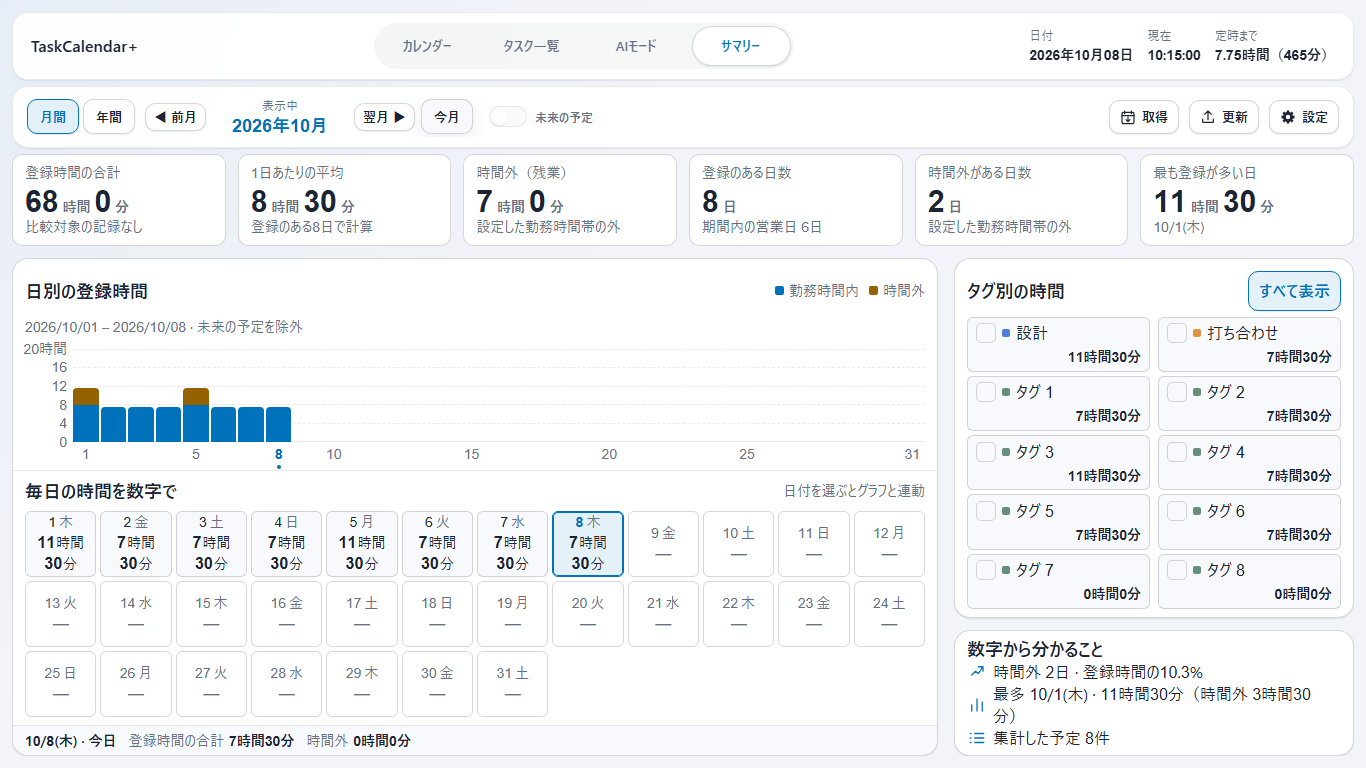
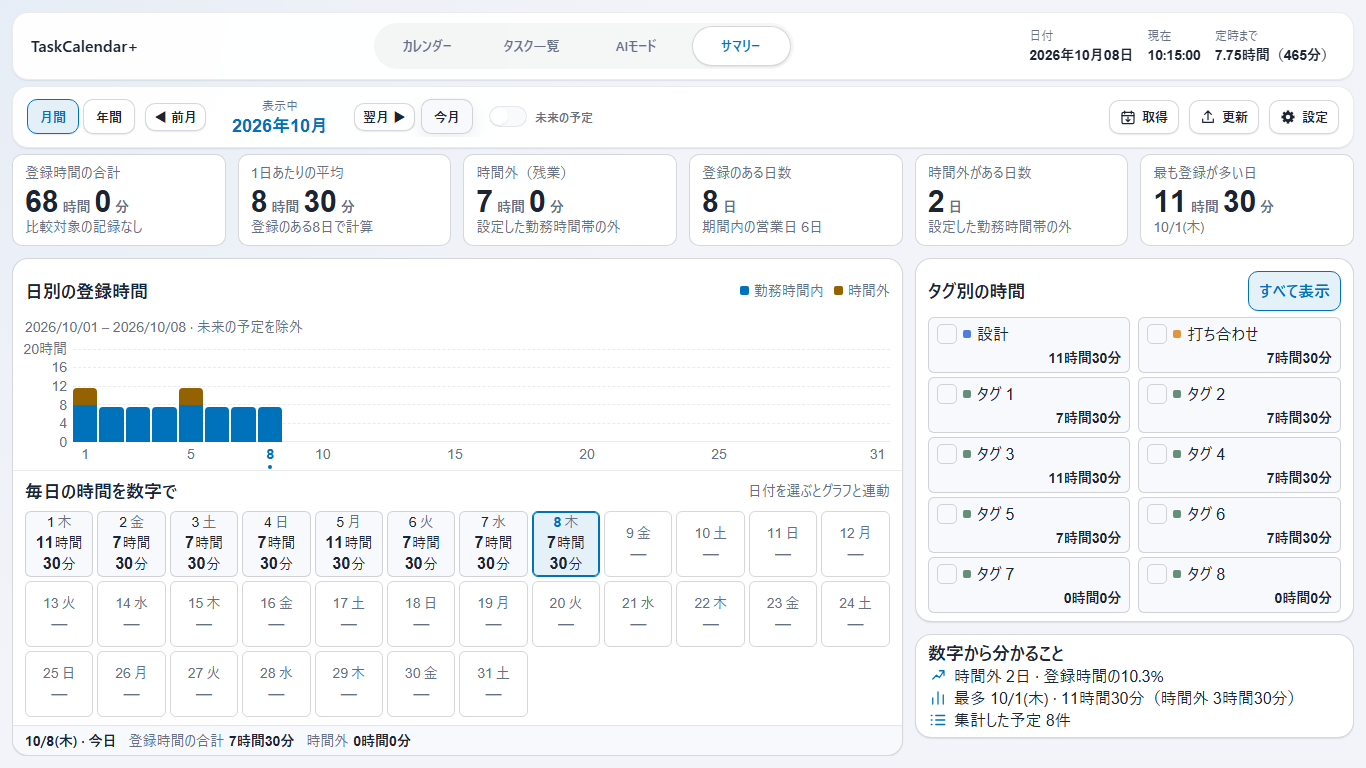
fix: align summary panels with the metric card grid

Changed region(s): [[0.0307, 0.3438, 0.9839, 0.9688], [0.0615, 0.5, 0.2152, 0.5938], [0.5227, 0.5625, 0.5534, 0.5938]]

diff --git a/src-tauri/renderer/assets/summary.css b/src-tauri/renderer/assets/summary.css
@@ -17,18 +17,20 @@
 .summaryScreen:has(.summaryNotice:not([hidden])) .summaryContent { flex: 0 0 auto; min-height: 520px; }
 .summaryNotice { display: flex; align-items: center; justify-content: space-between; gap: 12px; padding: 8px 12px; border: 1px solid var(--danger); border-radius: 8px; background: var(--panel); flex-shrink: 0; }
 .summaryNotice p { font-size: 16px; margin: 0; }
-.summaryMetrics { display: grid; grid-auto-flow: column; grid-auto-columns: minmax(0,1fr); gap: 12px; flex-shrink: 0; }
+/* Both rows share six equal tracks, so the four/two split stays aligned at any width. */
+.summaryMetrics, .summaryContent { display: grid; grid-template-columns: repeat(6,minmax(0,1fr)); gap: 12px; }
+.summaryMetrics { flex-shrink: 0; }
 .summaryMetric { display: flex; flex-direction: column; min-width: 0; padding: 8px 12px; border: 1px solid var(--border-strong); border-radius: var(--radius-md); background: var(--panel); }
 .summaryMetricLabel { flex: 1; font-size: 14px; line-height: 20px; color: var(--muted); }
 .summaryMetricValue { font-size: 30px; line-height: 34px; font-weight: 700; white-space: nowrap; font-variant-numeric: tabular-nums; }
 .summaryMetricValue small { font-size: 14px; line-height: 20px; font-weight: 500; margin: 0 4px; color: var(--muted); }
 .summaryMetricDetail { font-size: 14px; line-height: 20px; color: var(--muted); overflow: hidden; text-overflow: ellipsis; white-space: nowrap; }
-.summaryContent { display: grid; grid-template-columns: minmax(0,1fr) 400px; gap: 16px; flex: 1; min-width: 0; min-height: 476px; }
-.summarySide { display: flex; flex-direction: column; gap: 12px; min-width: 0; min-height: 0; }
+.summaryContent { flex: 1; min-width: 0; min-height: 476px; }
+.summarySide { grid-column: span 2; display: flex; flex-direction: column; gap: 12px; min-width: 0; min-height: 0; }
 .summaryPanel { min-width: 0; border: 1px solid var(--border-strong); border-radius: var(--radius-lg); background: var(--panel); box-shadow: var(--shadow-sm); }
 .summaryPanelHeading, .summaryNumbersHeading { display: flex; align-items: center; justify-content: space-between; gap: 10px; padding: 4px var(--summary-inset); flex-shrink: 0; }
 .summaryPanelHeading h2, .summaryNumbersHeading h2, .summaryInsights h2 { margin: 0; font-size: 18px; line-height: 24px; font-weight: 700; }
-.summaryTrend { display: flex; flex-direction: column; flex: 1; min-height: 210px; }
+.summaryTrend { grid-column: span 4; display: flex; flex-direction: column; flex: 1; min-height: 210px; }
 .summaryTrend > .summaryPanelHeading { min-height: 58px; padding-top: 12px; padding-bottom: 6px; }
 .summaryLegend { display: flex; align-items: center; justify-content: flex-end; gap: 10px; max-width: 55%; min-width: 0; font-size: 14px; line-height: 20px; color: var(--muted); }
 .summaryLegend span { display: inline-flex; align-items: center; gap: 5px; max-width: 145px; min-width: 0; }

diff --git a/docs/reviews/summary-readable.md b/docs/reviews/summary-readable.md
@@ -16,6 +16,7 @@
 | 年間の数字 | 12個を横並び | グラフ下に6列×2行。月を選ぶと日別へ移動 |
 | タグ | 右の領域 | 右側の2列を維持。名前と時間を上下に表示 |
 | タグの見出し | 上余白2px | 上余白12pxを確保し、左のグラフ見出しとも整列 |
+| 上段と下段の縦境界 | 右列400px固定で上段カードと不一致 | 同じ6列を共有し、グラフは4列、タグ・要約は2列。上段4／5枚目との境界を揃える |
 | 要約 | 小さい文章を複数行 | 同じ日数・割合・最長日・件数を簡潔な文で表示 |
 
 すべての棒と日付の数字は残している。グラフの横軸は間隔を空けて日付を表示し、選択した日も表示する。タグの時間割合は、時間表示のツールチップで確認できる。
@@ -55,6 +56,10 @@
 
 ![ダークテーマ](../images/summary-readable/month-dark.png)
 
+上段4枚目の右端とグラフの右端、5枚目の左端とタグ・要約の左端を揃えた。両段の間隔は12px。提示画像に近い1422×866のCSS表示領域では、それぞれ940px／952pxで一致する。次は3タグの検証用データで撮影した実renderer。
+
+![上段と下段の縦境界を統一](../images/summary-readable/aligned-columns.png)
+
 ## 今月へ戻すときのスクロール修正
 
 再現条件では、今月の最長日の説明が2行になり、右下の要約が104pxから126pxへ増えた。タグ欄の高さが固定だったため、右列全体が割当高さを超えていた。
@@ -75,7 +80,7 @@
 
 ## 確認条件と限界
 
-今回の今月スクロール／期間強調の修正後は、関連する6スイート（今月復帰・読みやすさ・整列・サマリー操作・共通UI・多言語）が合格。直前の04a200fではNode49スイートとJavaScript58ファイルの構文検査が合格していたが、今回の全体再実行を意味しない。集計計算・DBスキーマ・ネイティブ処理は変更していない。画像と検証範囲は[検証記録](summary-readable-evidence.json)に保存した。
+今回の縦境界修正後は、関連する5スイート（整列・今月復帰・読みやすさ・サマリー操作・共通UI）が合格。整列は3／10タグ×3画面幅×月間／年間を比較し、修正前のずれを検出してから修正後の一致を確認した。04a200f時点のNode49スイート・JavaScript58ファイルの構文検査は過去の結果で、今回の全体再実行を意味しない。集計計算・DBスキーマ・ネイティブ処理は変更していない。画像と検証範囲は[検証記録](summary-readable-evidence.json)に保存した。
 
 - 1280×800・1366×768で、31日・10タグ・指標6個とグラフを、通常時はスクロールなしで表示する。
 - 文字サイズの下限、実際の文字領域の欠け、操作部の重なり、パネル間の重なりを計測する。23時間59分の日別表示と選択連動、年間8,753時間55分の桁数でも6カード内に収まることを確認した。

diff --git a/docs/superpowers/plans/2026-10-24-summary-readable-ui.md b/docs/superpowers/plans/2026-10-24-summary-readable-ui.md
@@ -31,6 +31,8 @@
 
 **Current-period overflow and visibility:** User reports a scrollbar after 「今月」 and difficulty identifying the displayed month. Reproduced an internal3px/10px overflow at1366×768/1264×761 when a wrapped insight raises the right-column requirement. Let the tag panel shrink within available height, with visible tag rows56px normally and52px minimum, preserving text and heading padding. Add a12px「表示中」caption above the18px period label inside the existing toolbar. Keep shared shell geometry. Test previous→current month/year, multiple tag selection and reset, actual scrollable containers, and the intentionally scrollable short-window fallback.
 
+**Vertical alignment from screenshot:** User marks the boundary near metric4/5 with a red line. Use the same six equal tracks and12px gap for metrics and lower content: chart/numbers span4, tags/insights span2. Match chart right to metric4 right and tags/insights left to metric5 left at every desktop width. Preserve small-screen stacking, typography, period caption and the current-month overflow fix.
+
 - No aggregation changes, new AI calls, live Outlook calls, DB schema migration, application version bump, release, or main merge. Native launch was separately authorized and performed before the six-metric correction; the current audit uses isolated Chromium.
 - No change to task data. Use synthetic data/API/native bridge for UI tests and screenshots.
 - Keep month/year modes, future inclusion, tag paging, errors/retry, saved average denominator, keyboard focus, empty states and nine locales. Metric selection UI is intentionally removed by the latest correction.

diff --git a/CHANGELOG.md b/CHANGELOG.md
@@ -7,6 +7,7 @@
 - サマリーは6項目を常時表示。「表示項目」ボタンと選択ダイアログを削除し、既存の平均計算方式は保持。
 - 期間移動を既存カレンダーと同じ説明＋矢印のボタンへ統一。タグ見出しと「すべて表示」の上余白を確保。
 - 「今月」へ戻った際、要約の折り返しでスクロールバーが出る問題を修正。タグ内の余白を残り高さに合わせて調整し、文字サイズは維持。「表示中」の年月・年を強調。
+- 上段6カードと下段を同じ6列で配置。グラフの右端を4枚目、タグ・要約の左端を5枚目に揃え、間隔も統一。
 - 未来予定スイッチ、月間・年間の選択状態を既存UIへ統一。狭幅でも上部4タブを同じ行に表示。
 - 設定の更新確認・Outlook自動同期スイッチの位置と、狭幅のタグ下限・上限入力の見切れを修正。
 - 31日・10タグの標準画面、小さい表示領域、再取得エラー、多言語での読みやすさと操作到達性を検証。
